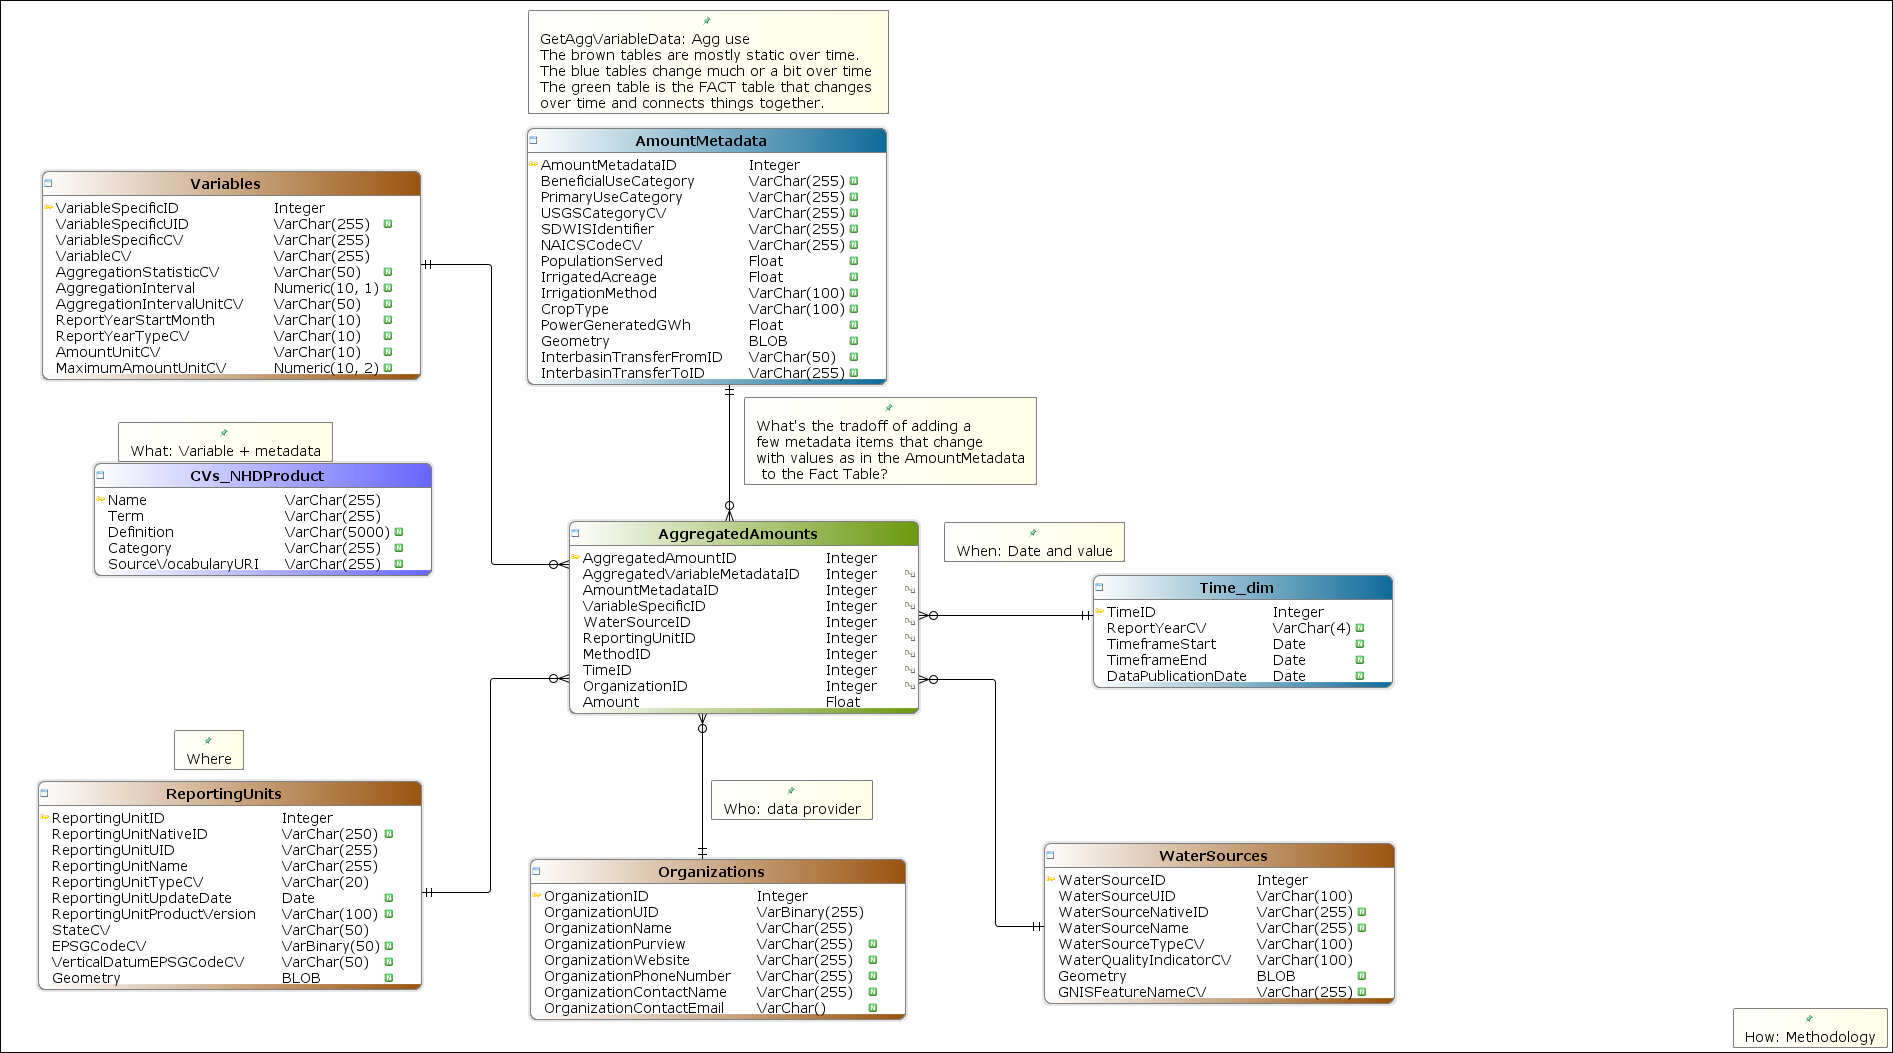
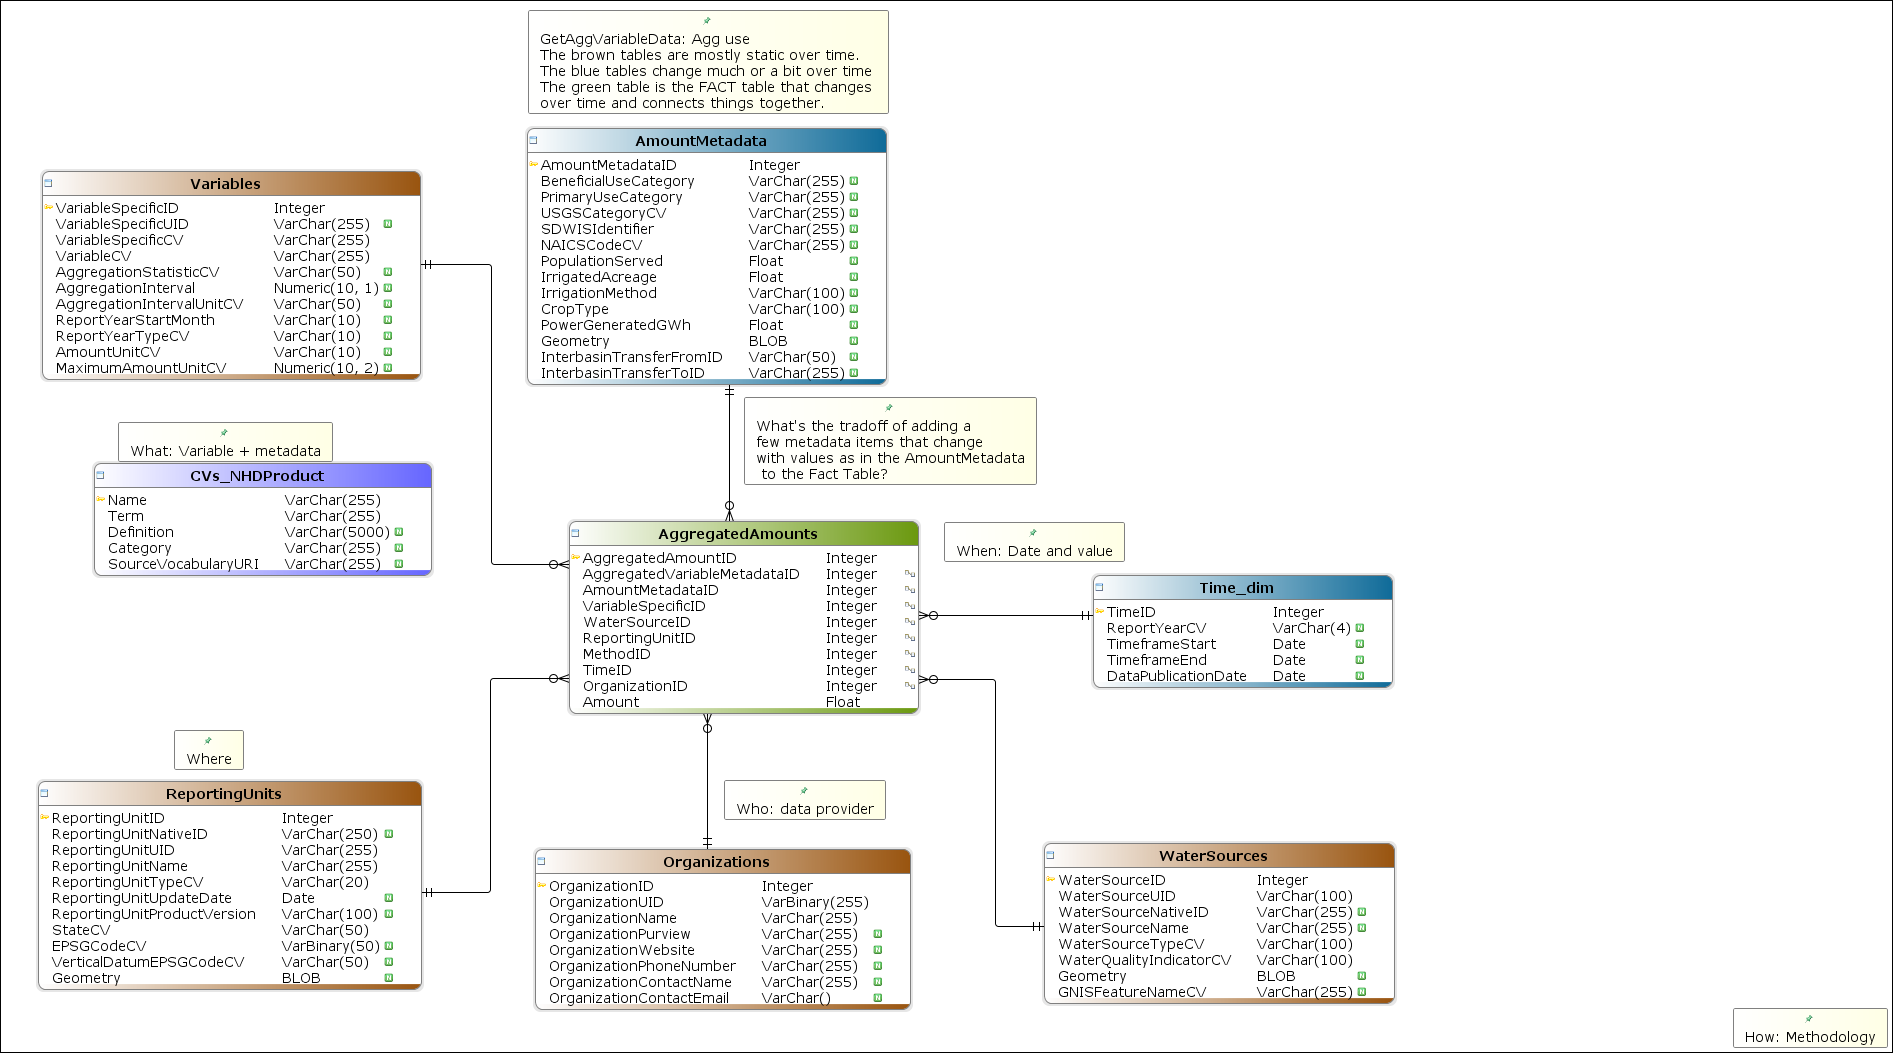
minor visual chnages

Changed region(s): [[0.2805, 0.7597, 0.4987, 0.9725]]

diff --git a/docs/diagrams/1_Star_WaterAllocation.html b/docs/diagrams/1_Star_WaterAllocation.html
@@ -14,14 +14,14 @@
 <h1>Diagram: 1_Star_WaterAllocation</h1>
 <br>
 <map id="imgmap" name="imgmap">
-<area coords="26, 466, 391, 658" href="../tables/WaDE2_star_Methods.html" shape="rect">
-<area coords="31, 742, 400, 982" href="../tables/WaDE2_star_Sites.html" shape="rect">
+<area coords="35, 462, 400, 654" href="../tables/WaDE2_star_Methods.html" shape="rect">
+<area coords="39, 742, 408, 982" href="../tables/WaDE2_star_Sites.html" shape="rect">
 <area coords="1045, 561, 1344, 673" href="../tables/WaDE2_star_Time_dim.html" shape="rect">
 <area coords="1018, 216, 1455, 440" href="../tables/WaDE2_star_Allocations.html" shape="rect">
 <area coords="1042, 795, 1392, 955" href="../tables/WaDE2_star_WaterSources.html" shape="rect">
 <area coords="31, 172, 409, 380" href="../tables/WaDE2_star_Variables.html" shape="rect">
 <area coords="522, 823, 897, 983" href="../tables/WaDE2_star_Organizations.html" shape="rect">
-<area coords="483, 132, 842, 388" href="../tables/WaDE2_star_AmountMetadata.html" shape="rect">
+<area coords="504, 131, 863, 387" href="../tables/WaDE2_star_AmountMetadata.html" shape="rect">
 <area coords="538, 503, 832, 743" href="../tables/WaDE2_star_AllocationAmounts.html" shape="rect">
 </map>
 <img src="1_Star_WaterAllocation.png" usemap="#imgmap"></body>

diff --git a/docs/diagrams/4_Star_Regulatory.html b/docs/diagrams/4_Star_Regulatory.html
@@ -14,9 +14,9 @@
 <h1>Diagram: 4_Star_Regulatory</h1>
 <br>
 <map id="imgmap" name="imgmap">
-<area coords="970, 182, 1334, 422" href="../tables/WaDE2_star_RegulatoryOverlay.html" shape="rect">
-<area coords="77, 439, 460, 647" href="../tables/WaDE2_star_ReportingUnits.html" shape="rect">
-<area coords="544, 206, 847, 334" href="../tables/WaDE2_star_RegulatoryReportingUnits.html" shape="rect">
+<area coords="970, 181, 1334, 421" href="../tables/WaDE2_star_RegulatoryOverlay.html" shape="rect">
+<area coords="77, 438, 460, 646" href="../tables/WaDE2_star_ReportingUnits.html" shape="rect">
+<area coords="544, 205, 847, 333" href="../tables/WaDE2_star_RegulatoryReportingUnits.html" shape="rect">
 <area coords="532, 519, 907, 679" href="../tables/WaDE2_star_Organizations.html" shape="rect">
 </map>
 <img src="4_Star_Regulatory.png" usemap="#imgmap"></body>

diff --git a/docs/diagrams/3_Star_Aggregated.html b/docs/diagrams/3_Star_Aggregated.html
@@ -20,7 +20,7 @@
 <area coords="569, 521, 918, 713" href="../tables/WaDE2_star_AggregatedAmounts.html" shape="rect">
 <area coords="1093, 575, 1392, 687" href="../tables/WaDE2_star_Time_dim.html" shape="rect">
 <area coords="527, 128, 886, 384" href="../tables/WaDE2_star_AmountMetadata.html" shape="rect">
-<area coords="530, 859, 905, 1019" href="../tables/WaDE2_star_Organizations.html" shape="rect">
+<area coords="535, 849, 910, 1009" href="../tables/WaDE2_star_Organizations.html" shape="rect">
 <area coords="94, 463, 431, 575" href="../tables/WaDE2_star_CVs_NHDProduct.html" shape="rect">
 </map>
 <img src="3_Star_Aggregated.png" usemap="#imgmap"></body>

diff --git a/docs/index.html b/docs/index.html
@@ -51,7 +51,7 @@
 <div class="paragraph">
 <p>
 <b>Documented with DbWrench  </b>
-<k>04 Feb 2019 - 02:58:04 PM</k>
+<k>07 Feb 2019 - 04:02:21 PM</k>
 </p>
 </div>
 </body>
